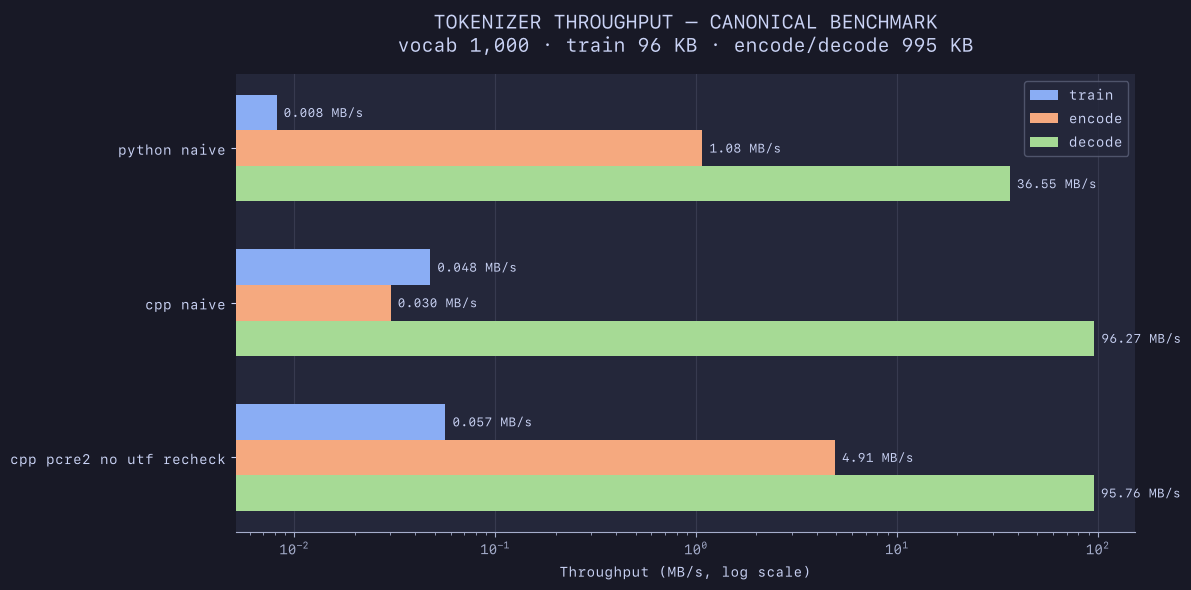
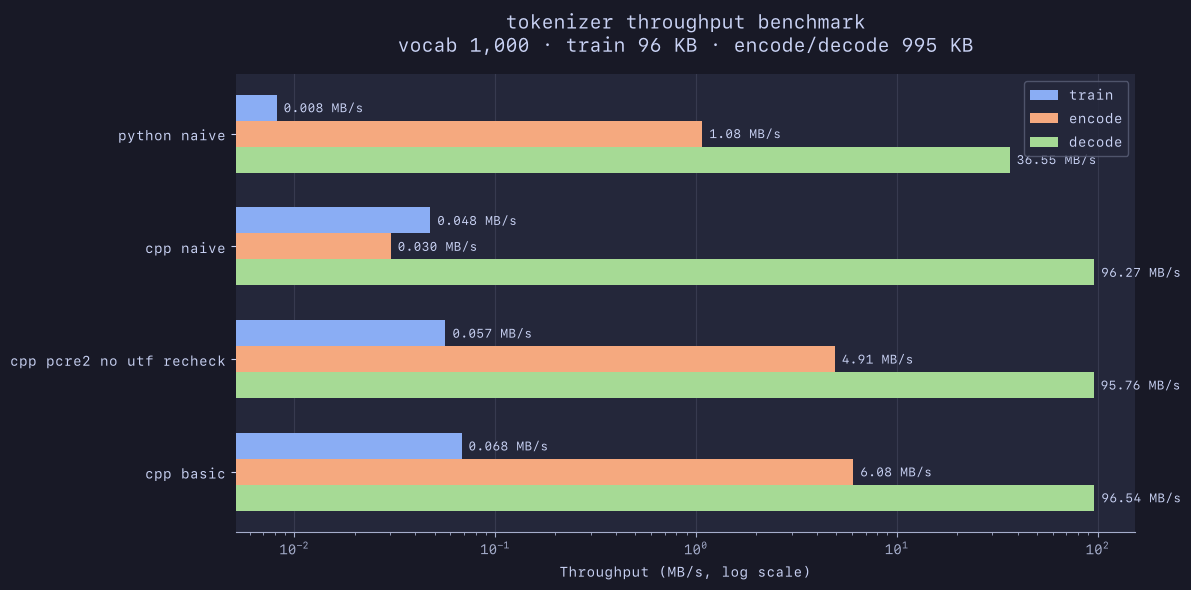
2nd set of (small) optimizations `tokenizer.cpp`

diff --git a/cpp/tokenizer.cpp b/cpp/tokenizer.cpp
@@ -2,11 +2,9 @@
 #include <pcre2.h>
 
 #include "tokenizer.hpp"
-
-#include <iostream>
-#include <chrono>
 #include <algorithm>
 #include <stdexcept>
+#include <cstdint>
 
 namespace
 {
@@ -46,7 +44,8 @@ std::vector<std::string> pretokenize(const std::string &text)
 
     while (offset < text.size())
     {
-        int32_t match_options = PCRE2_ANCHORED;
+        // optimization pcre2 no utf recheck
+        uint32_t match_options = PCRE2_ANCHORED;
         if (offset > 0) match_options |= PCRE2_NO_UTF_CHECK;
         
         // expensive
@@ -92,6 +91,7 @@ std::vector<int> merge_pair(const std::vector<int> &token_ids, std::pair<int, in
 {
     // replace every non-overlapping adjacent pair with new_token_id from left to right
     std::vector<int> result;
+    result.reserve(token_ids.size());
     std::size_t i = 0;
 
     while (i < token_ids.size())
@@ -152,6 +152,7 @@ std::pair<int, int> select_pair(const std::map<std::pair<int, int>, int> &counts
 std::vector<int> bytes_to_ids(const std::string &piece)
 {
     std::vector<int> token_ids;
+    token_ids.reserve(piece.size()); // optimization basic data
 
     for (unsigned char byte : piece)
         token_ids.push_back(byte);
@@ -196,6 +197,8 @@ void BPETokenizer::train(const std::string &text)
     std::vector<std::string> string_pieces = pretokenize(text);
     std::vector<std::vector<int>> integer_pieces;
 
+    integer_pieces.reserve(string_pieces.size());
+
     for (const std::string &piece : string_pieces)
         integer_pieces.push_back(bytes_to_ids(piece));
 
@@ -229,6 +232,7 @@ std::vector<int> BPETokenizer::encode(const std::string &text, const std::set<st
     if (allowed_special.empty()) return encode_ordinary(text);
 
     std::vector<int> token_ids;
+    token_ids.reserve(text.size());
     std::size_t ordinary_start = 0;
     std::size_t position = 0;
 
@@ -358,6 +362,9 @@ std::vector<int> BPETokenizer::encode_ordinary(const std::string &text) const
     std::vector<std::string> pieces = pretokenize(text);
     std::vector<int> token_ids;
 
+    // optimization basic data
+    token_ids.reserve(text.size());
+
     for (const std::string &piece : pieces)
     {
         std::vector<int> piece_token_ids = encode_piece(piece);
@@ -380,9 +387,12 @@ std::vector<int> BPETokenizer::encode_piece(const std::string &piece) const
         for (std::size_t i = 0; i + 1 < token_ids.size(); i++)
         {
             std::pair<int, int> current_pair = {token_ids[i], token_ids[i + 1]};
-            if (!merges.contains(current_pair)) continue;
 
-            int current_token_id = merges.at(current_pair);
+            // optimization basic data
+            auto merge_rule = merges.find(current_pair);
+            if (merge_rule == merges.end()) continue;
+            int current_token_id = merge_rule->second;
+
 
             if (selected_token_id == -1 || current_token_id < selected_token_id)
             {
